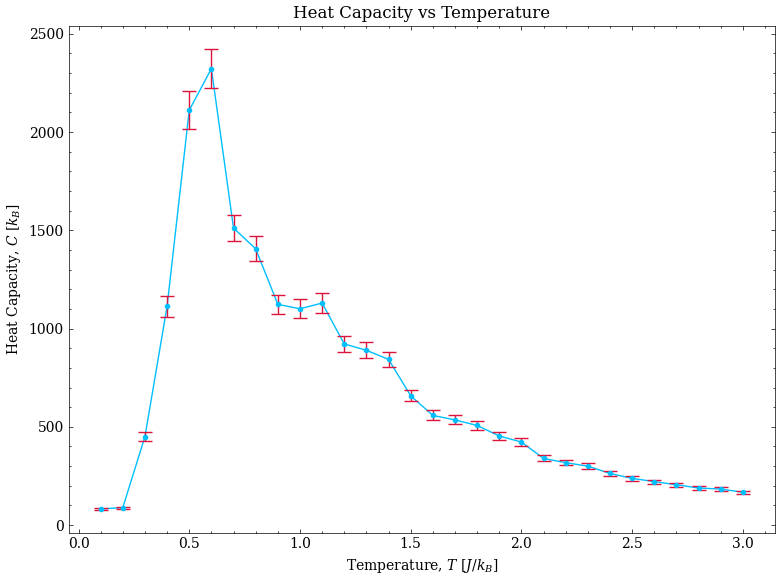
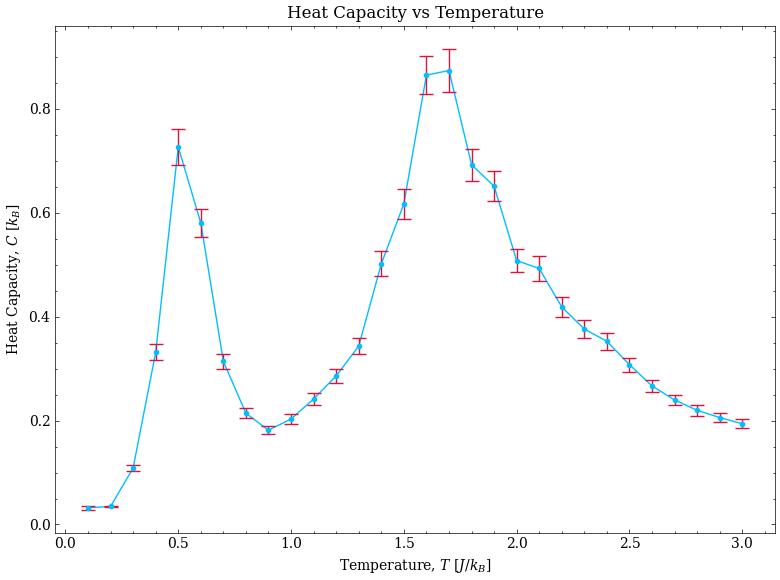
fixed 2014

diff --git a/2014/beg.py b/2014/beg.py
@@ -4,6 +4,7 @@ from matplotlib import pyplot as plt
 from matplotlib.animation import FuncAnimation
 import argparse
 import pandas as pd
+import matplotlib.colors as mc
 from numba import njit
 import scienceplots
 
@@ -26,8 +27,8 @@ def Glauber(L, S, J, kBT):
         dE: the energy change
     """
     # Choose random state. x and y denote rows and columns, respectively
-    x = random.randint(0, L-1)
-    y = random.randint(0, L-1)
+    x = np.random.randint(0, L)
+    y = np.random.randint(0, L)
     
     if S[x, y] == 0:
         # No effect if He3 chosen in Glauber update
@@ -62,15 +63,15 @@ def Kawasaki(L, S, J, kBT):
         dE: the energy change
     """
     # Choose random states i and j
-    xi = random.randint(0, L-1)
-    yi = random.randint(0, L-1)
-    xj = random.randint(0, L-1)
-    yj = random.randint(0, L-1)
+    xi = np.random.randint(0, L)
+    yi = np.random.randint(0, L)
+    xj = np.random.randint(0, L)
+    yj = np.random.randint(0, L)
 
     # Continue choosing j until it is distinct from i and not a nearest neighbour.
     while ((xi == xj) and (yi == yj)) or nearest_neighbor(xi, yi, xj, yj, L) or (S[xi, yi] == S[xj, yj]):
-        xj = random.randint(0, L-1)
-        yj = random.randint(0, L-1)
+        xj = np.random.randint(0, L)
+        yj = np.random.randint(0, L)
     
     # Compute the neighbour sums for sites i and j.
     NN_I = neighbour_sum(S, xi, yi, L)
@@ -126,7 +127,7 @@ def metropolis(dE, kBT):
         if dE <= 0:
             # Always accept energy-lowering flip
             return True                                      
-        elif random.uniform(0, 1) < np.exp(-dE / kBT):  
+        elif np.random.binomial(1, np.exp(-dE / kBT)):  
             # Spin flips with probability
             return True
         else:
@@ -290,11 +291,9 @@ class BEG:
             print(f"Progress: {i}/{t}", end="\r", flush=True)                                   
             
             # Take measurements every 10 sweeps
-            if i % 10 == 0:                       
-                # Calculate current magnetisation                  
-                S_sum = np.sum(self.S)                                    
+            if i % 10 == 0:                                           
                 # Record current magnetisation                                 
-                self.M[i//10 - 1] = S_sum                         
+                self.M[i//10 - 1] = np.sum(self.S)                           
                 # Record current energy  
                 self.E[i//10 - 1] = self.totalE
         # Move to next line after sweeps complete
@@ -304,11 +303,16 @@ class BEG:
         """
         Run the simulation with an animated grid.
         """
-        fig, ax = plt.subplots(figsize=(6, 6))
-        img = plt.imshow(self.S, cmap='plasma', vmin=-1, vmax=1)  
+        # Create custom cmap
+        colours = ['red', 'yellow', 'blue']
+        self.cmap = mc.ListedColormap(colours)
+        fig, ax = plt.subplots(figsize=[6, 6])
+        img = plt.imshow(self.S, cmap=self.cmap, vmin=-1, vmax=1)  
+        # Define discrete boundaries for cmap/colorbar
+        boundaries = np.linspace(-1, 1, 4)
         # Add colour bar
         cbar = plt.colorbar(img, ax=ax)
-        cbar.set_ticks([-1, 0, 1])
+        cbar.set_ticks([-2/3, 0, 2/3])
         cbar.set_ticklabels([-1, 0, 1], fontsize=16)
         cbar.set_label(r'spin $S_i$', size=16)
 
@@ -322,7 +326,7 @@ class BEG:
         """
         # Clear the axis
         plt.cla()                                       
-        plt.title(f"BEG Model\n $L$ = {self.L}, $T$ = {self.kBT}, $c$ = {self.c}")
+        plt.title(f"BEG Model\n $L$ = {self.L}, $T$ = {self.kBT}, $c$ = {self.c}", fontsize=16)
         plt.axis('off')
         # Run 10 sweeps of the algorithm
         for i in range(10):                                                                           
@@ -336,21 +340,18 @@ class BEG:
         else:
             print("pass")
         # Update the image                                                         
-        img = plt.imshow(self.S, cmap='plasma', vmin=-1, vmax=1)                                                                      
+        img = plt.imshow(self.S, cmap=self.cmap, vmin=-1, vmax=1)                                                                      
         return img
           
 
-    def avg_M(self, M):
+    def avg_M(self):
         """
         Return average magnetisation and average magnetisation squared.
-
-        Arguments:
-           M: magnetisation measurements array
         
         Returns:
            average magnetisation, average magnetisation squared
         """
-        return np.mean(M), np.mean(np.square(M))
+        return np.mean(self.M), np.mean(np.square(self.M))
     
     def susceptibility(self, M, M2):
         """
@@ -365,24 +366,20 @@ class BEG:
         """
         return (M2 - M**2) / (self.L * self.L * self.kBT)                               
     
-    def avg_E(self, E):
+    def avg_E(self):
         """
         Calculate and return average energy and average energy squared.
 
-        Arguments:
-           E: energy measurements array
-        
         Returns:
            average energy, average energy squared
         """
-        return np.mean(E), np.mean(np.square(E))
+        return np.mean(self.E), np.mean(np.square(self.E))
 
     
     def collect4_5(self):
         """
         Collect data for tasks 4 and 5 at the same time. Save results to file.
-        """
-        self.c = 0.8
+        """    
         T_list = np.arange(3, 0, -0.1)
         T_list = np.round(T_list, 1)
         data4 = []
@@ -398,10 +395,10 @@ class BEG:
             # Collect data
             self.run(10000)
             # Calculate heat capacity and susceptibility
-            E, E2 = self.avg_E(self.E)
+            E, E2 = self.avg_E()
             C = heat_capacity(E, E2, self.L, self.kBT)
             sigma = jackknife(self.E, 1000, C, self.L, self.kBT)
-            M, M2 = self.avg_M(self.M)
+            M, M2 = self.avg_M()
             chi = self.susceptibility(M, M2)
             # Append to data arrays
             data4.append([T, C, sigma])
@@ -413,34 +410,34 @@ class BEG:
         df5 = pd.DataFrame(data5, columns=['T', 'chi'])
         df5.to_csv("task5.txt", mode='w', index=False, header=True)
 
-    def plot4(self):
-        """
-        Plot heat capacity results for task 4.
-        """
-        df = pd.read_csv("task4.txt")
-        fig = plt.figure(figsize=[8, 6])
-        plt.plot(df['T'], df['C'], '-', color='deepskyblue')
-        plt.errorbar(df['T'], df['C'], yerr=df['sigma'], fmt='.', color='deepskyblue', capsize=5, ecolor='crimson')
-        plt.xlabel(r'Temperature, $T$ [$J/k_B$]')
-        plt.ylabel(r'Heat Capacity, $C$ [$k_B$]')
-        plt.title(f'Heat Capacity vs Temperature')
-        
-        plt.tight_layout()
-        plt.show()
+def plot4():
+    """
+    Plot heat capacity results for task 4.
+    """
+    df = pd.read_csv("task4.txt")
+    fig = plt.figure(figsize=[8, 6])
+    plt.plot(df['T'], df['C'], '-', color='deepskyblue')
+    plt.errorbar(df['T'], df['C'], yerr=df['sigma'], fmt='.', color='deepskyblue', capsize=5, ecolor='crimson')
+    plt.xlabel(r'Temperature, $T$ [$J/k_B$]')
+    plt.ylabel(r'Heat Capacity, $C$ [$k_B$]')
+    plt.title(f'Heat Capacity vs Temperature')
     
-    def plot5(self):
-        """
-        Plot susceptibility results for task 5.
-        """
-        df = pd.read_csv("task5.txt")
-        fig = plt.figure(figsize=[8, 6])
-        plt.plot(df['T'], df['chi'], '-', color='deepskyblue')
-        plt.xlabel(r'Temperature, $T$ [$J/k_B$]')
-        plt.ylabel(r'Susceptibility, $\chi$ [$1/J$]')
-        plt.title(f'Susceptibility vs Temperature')
-        
-        plt.tight_layout()
-        plt.show()
+    plt.tight_layout()
+    plt.show()
+
+def plot5():
+    """
+    Plot susceptibility results for task 5.
+    """
+    df = pd.read_csv("task5.txt")
+    fig = plt.figure(figsize=[8, 6])
+    plt.plot(df['T'], df['chi'], '-', color='deepskyblue')
+    plt.xlabel(r'Temperature, $T$ [$J/k_B$]')
+    plt.ylabel(r'Susceptibility, $\chi$ [$1/J$]')
+    plt.title(f'Susceptibility vs Temperature')
+    
+    plt.tight_layout()
+    plt.show()
 
 if __name__ == "__main__":
     """Parse command line arguments"""
@@ -453,19 +450,18 @@ if __name__ == "__main__":
     parser.add_argument('--plot', action='store_true', help='Plot results for a given task')
     args = parser.parse_args()
 
-    beg = BEG(args.size, args.temperature, args.fraction)
-
     if args.task == 'animation':
+        beg = BEG(args.size, args.temperature, args.fraction)
         beg.run_ani()  
     elif args.collect:
         if (args.task == '4') or (args.task == '5'):
+            beg = BEG(50, None, 0.8)
             beg.collect4_5()
         elif args.task == '6':
+            beg = BEG(50, None, 0.2)
             beg.collect6()
     elif args.plot:
         if args.task == '4':
-            beg.plot4()
+            plot4()
         elif args.task == '5':
-            beg.plot5()
-        elif args.task == '6':
-            beg.plot6()
+            plot5()

diff --git a/checkpoint 1/ising.py b/checkpoint 1/ising.py
@@ -29,8 +29,8 @@ def Glauber(sweep, L, S, J, kBT):
     dE_total = 0
     for i in range(sweep):
         # Choose random state. x and y denote rows and columns, respectively
-        x = random.randint(0, L-1)
-        y = random.randint(0, L-1)
+        x = np.random.randint(0, L)
+        y = np.random.randint(0, L)
 
         # Sum up nearest neighbours
         I_sum = neighbour_sum(S, x, y, L)
@@ -66,14 +66,14 @@ def Kawasaki(sweep, L, S, J, kBT):
     dE_total = 0
     for i in range(sweep):
         #choose random states i and j
-        xi = random.randint(0, L-1)
-        yi = random.randint(0, L-1)
-        xj = random.randint(0, L-1)
-        yj = random.randint(0, L-1)
+        xi = np.random.randint(0, L)
+        yi = np.random.randint(0, L)
+        xj = np.random.randint(0, L)
+        yj = np.random.randint(0, L)
         #continue choosing j state until it is distinct from the i state
         while ([xi, yi] == [xj, yj]) or (S[xi, yi] == S[xj, yj]):
-            xj = random.randint(0, L-1)
-            yj = random.randint(0, L-1)
+            xj = np.random.randint(0, L)
+            yj = np.random.randint(0, L)
 
         # Compute the nearest neighbour sum for sites i and j
         NN_I = neighbour_sum(S, xi, yi, L)
@@ -134,7 +134,7 @@ def metropolis(dE, kBT):
         if dE <= 0:
             # Always accept energy-lowering flip
             return True                                      
-        elif random.uniform(0, 1) < np.exp(-dE / kBT):  
+        elif np.random.binomial(1, np.exp(-dE / kBT)):  
             # Spin flips with probability
             return True
         else:

diff --git a/checkpoint 2/sirs.py b/checkpoint 2/sirs.py
@@ -59,8 +59,8 @@ def update(old, sweep, L, pS_I, pI_R, pR_S):
             # Copy old board to new board
             new = old.copy()
             # Choose a random cell
-            i = random.randint(0, L-1)
-            j = random.randint(0, L-1)
+            i = np.random.randint(0, L)
+            j = np.random.randint(0, L)
             # Check state of cell and update accordingly
             if (old[i, j] == -1) and np.random.binomial(1, pR_S):
                 # Change recovered to susceptible

diff --git a/2023/rps_random.py b/2023/rps_random.py
@@ -31,8 +31,8 @@ def update_rps(old, sweep, L, p1, p2, p3):
             # Copy old board to new board
             new = old.copy()
             # Choose a random cell
-            i = random.randint(0, L-1)
-            j = random.randint(0, L-1)
+            i = np.random.randint(0, L)
+            j = np.random.randint(0, L)
             # Compute list of neighbours
             up = (i - 1) % L
             down = (i + 1) % L
